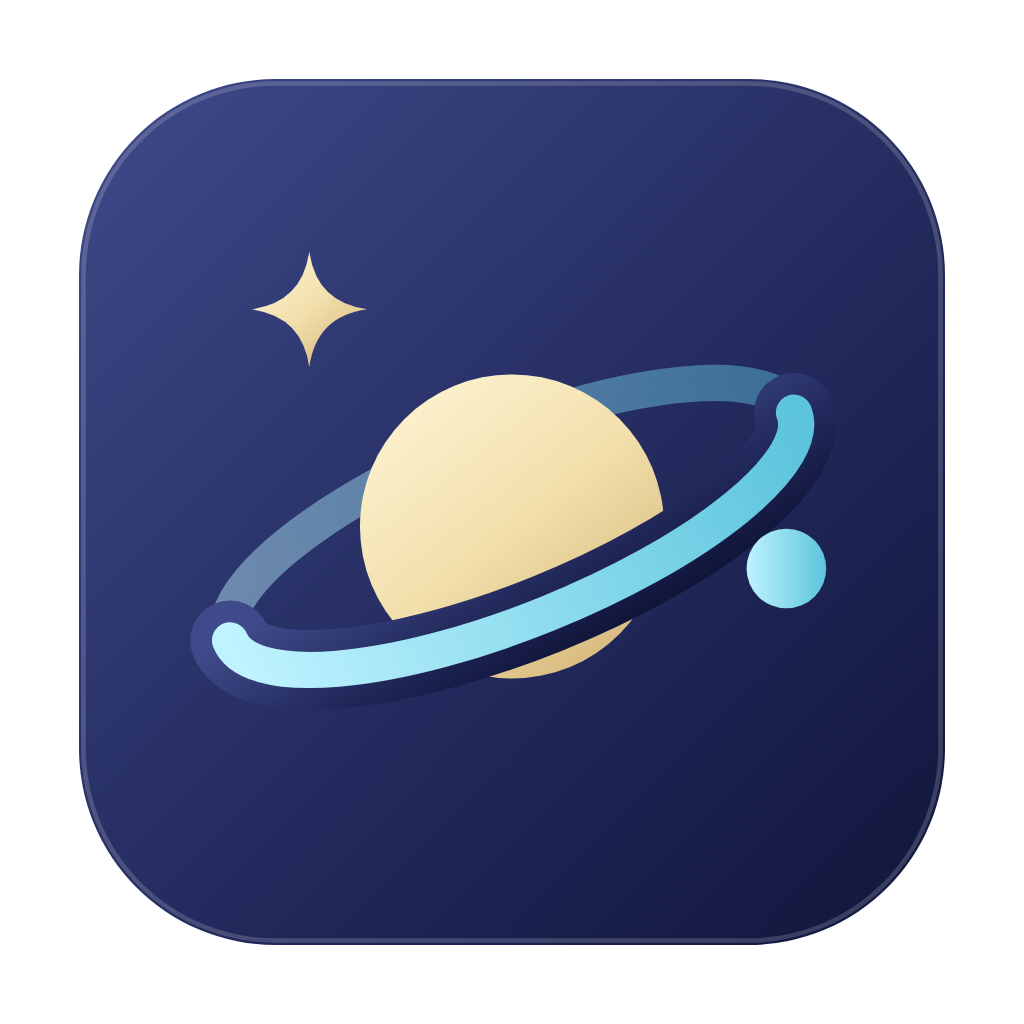
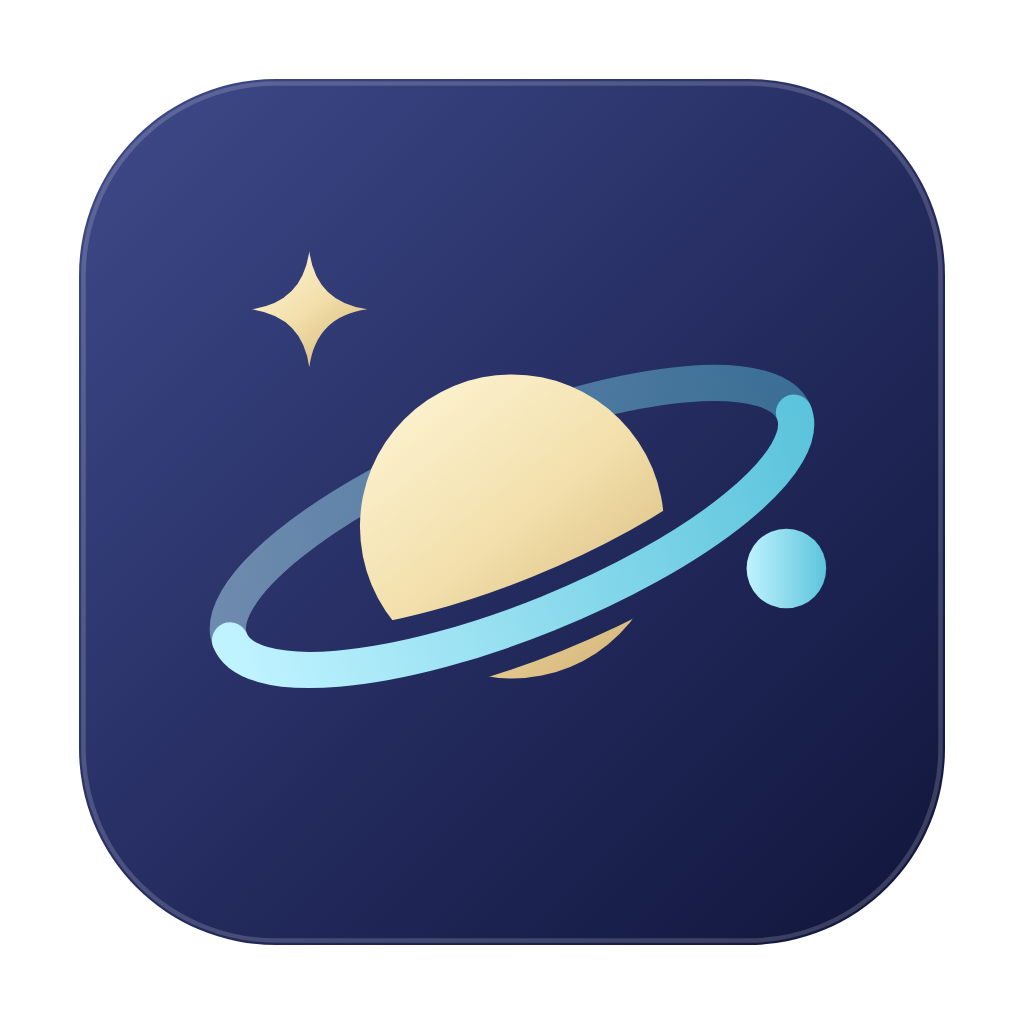
fix: let the orbit gap reveal the base instead of painting a rim

diff --git a/desktop/icon_test.go b/desktop/icon_test.go
@@ -49,6 +49,31 @@ func TestAppIconPNG(t *testing.T) {
 	}
 }
 
+// The gap under the front of the orbit must reveal the base, not paint a
+// rim of its own: next to the ring's left tip it matches the base beside it.
+func TestAppIconRingHasNoHalo(t *testing.T) {
+	f, err := os.Open(filepath.Join("resources", "icon.png"))
+	if err != nil {
+		t.Fatal(err)
+	}
+	defer f.Close()
+	img, err := png.Decode(f)
+	if err != nil {
+		t.Fatal(err)
+	}
+	gap := color.NRGBAModel.Convert(img.At(192, 640)).(color.NRGBA)
+	base := color.NRGBAModel.Convert(img.At(175, 640)).(color.NRGBA)
+	diff := func(a, b uint8) int {
+		if a > b {
+			return int(a - b)
+		}
+		return int(b - a)
+	}
+	if diff(gap.R, base.R) > 6 || diff(gap.G, base.G) > 6 || diff(gap.B, base.B) > 6 {
+		t.Errorf("gap at (192,640) = %v, base at (175,640) = %v: the ring has a visible rim", gap, base)
+	}
+}
+
 func TestAppIconSVG(t *testing.T) {
 	raw, err := os.ReadFile(filepath.Join("resources", "icon.svg"))
 	if err != nil {
